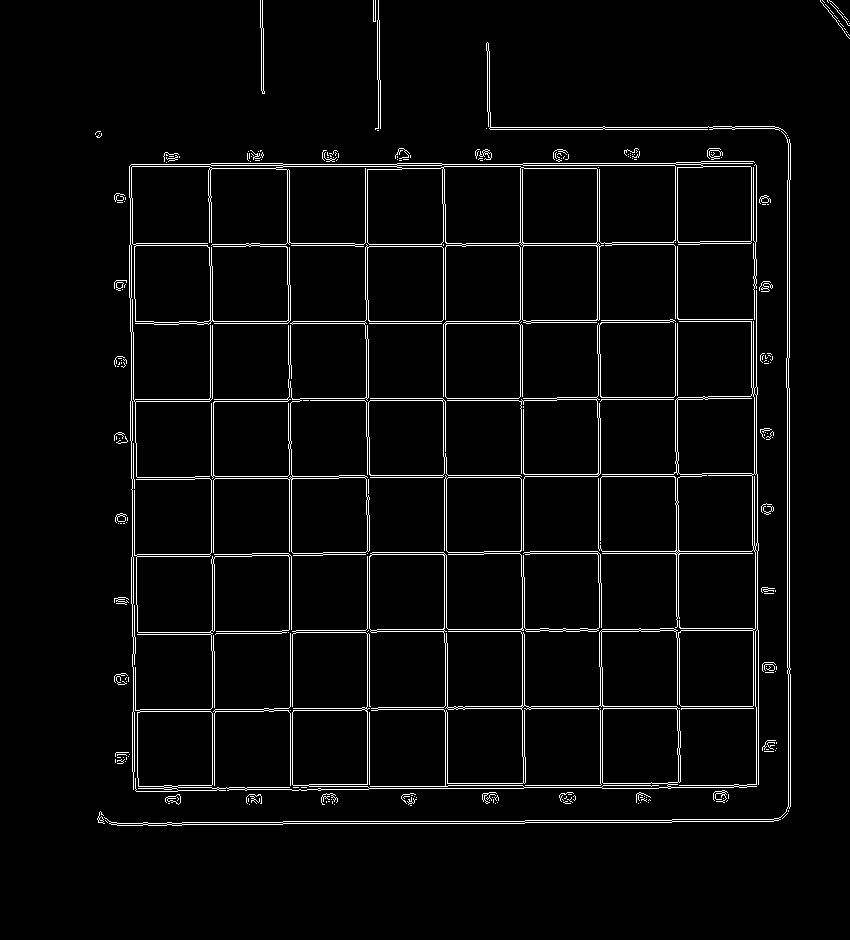
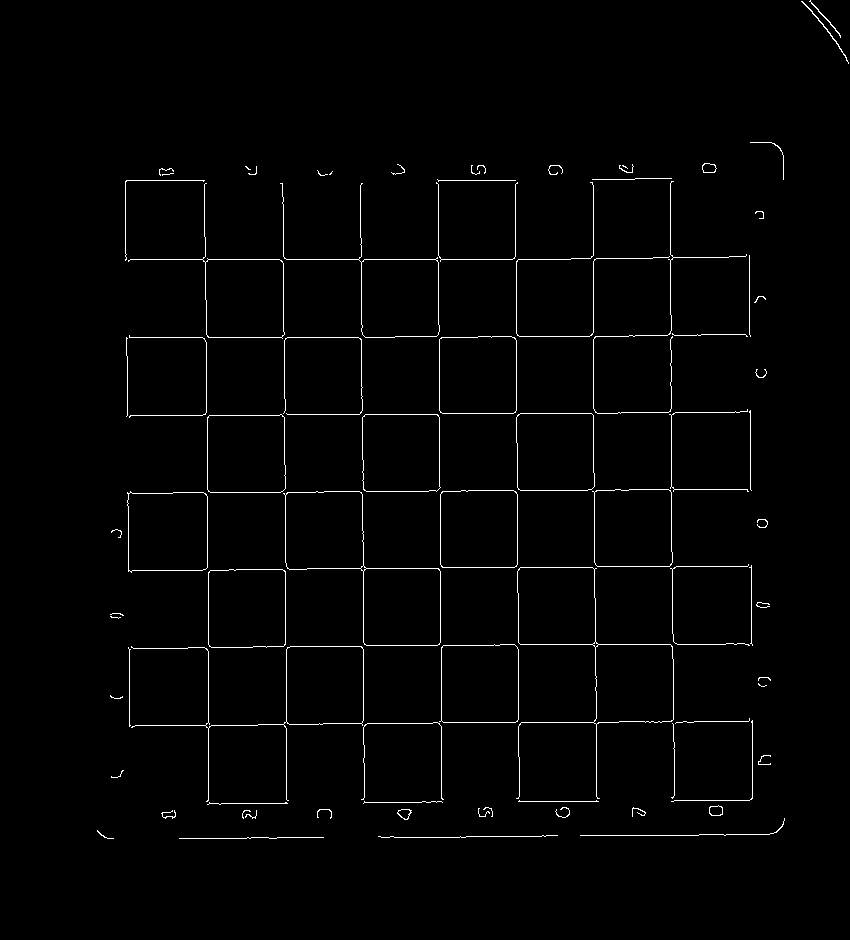
revised board detection

diff --git a/ChessLocalization.py b/ChessLocalization.py
@@ -3,6 +3,7 @@ import numpy as np
 import os
 
 def cropBorder(img, lines):
+    dims = img.shape
     minX = float('inf')
     maxX = float('-inf')
     minY = float('inf')
@@ -25,7 +26,14 @@ def cropBorder(img, lines):
                 maxY = y1
             if(y2 > maxY):
                 maxY = y2 
-
+    if(minY > 10): 
+        minY = minY-10
+    if(minX > 10): 
+        minX = minX-10
+    if(dims[1] > maxX +10): 
+        maxX = maxX + 10
+    if(dims[0] > maxY +10): 
+        maxY = maxY + 10
     crop = img[minY:maxY, minX:maxX]
     return crop
 
@@ -34,11 +42,10 @@ def cropBorder(img, lines):
 def localization(img):
     scriptDir = os.path.dirname(__file__)
 
-    img_blur = cv2.GaussianBlur(img,(5,5),0)
+    img_blur = cv2.GaussianBlur(img,(7,7),0)
 
     gray = cv2.cvtColor(img_blur, cv2.COLOR_BGR2GRAY)
 
-    edges = cv2.Canny(gray,100,200)
 
     # ret, thresh1 = cv2.threshold(gray,127,255,cv2.THRESH_BINARY)
     # cv2.imshow("temp", thresh1)
@@ -46,13 +53,16 @@ def localization(img):
     # crop_r = img
     # crop_img = edges
     crop_r = img[100:dims[0]-40,500:dims[1]-570]
-    crop_img = edges[100:dims[0]-40,500:dims[1]-570]
+    crop_img = gray[100:dims[0]-40,500:dims[1]-570]
     
-    
+    edges = cv2.Canny(crop_img,150,200)
+    cv2.imshow("gray",gray)
+    cv2.imshow("edges",edges)
+    # edges = cv2.Canny(crop_img,0,50,apertureSize = 3)
+    # edges = cv2.Canny(crop_img,100,200)
 
-    edges = cv2.Canny(crop_img,0,50,apertureSize = 3)
 
-    lines = cv2.HoughLinesP(edges,1,np.pi/180,15,50,100,20)
+    lines = cv2.HoughLinesP(edges,1,np.pi/180,15,50,20,20)
     for line in lines:
         for x1,y1,x2,y2 in line:
             cv2.line(crop_r,(x1,y1),(x2,y2),(255,0,0),5)
@@ -65,23 +75,23 @@ def localization(img):
     cv2.imshow("temp",crop_img)
     cv2.imshow("temp2", crop_r)
     cv2.waitKey(0)
-    return crop_r
+    # return crop_r
 
-    # crop = cropBorder(crop_r, lines)
-    # dims = crop.shape
-    # crop = crop[10:dims[0]-10,10:dims[1]-10]
+    crop = cropBorder(crop_r, lines)
+    dims = crop.shape
+    crop = crop[10:dims[0]-10,10:dims[1]-10]
 
-    # edges = cv2.Canny(crop,50,150,apertureSize = 3)
+    edges = cv2.Canny(crop,50,150,apertureSize = 3)
 
-    # lines = cv2.HoughLinesP(edges,1,np.pi/180,15,50,300,20)
-    # # for line in lines:
-    #     # for x1,y1,x2,y2 in line:
-    #         # cv2.line(crop,(x1,y1),(x2,y2),(255,0,0),5)
-    # crop2 = cropBorder(crop, lines)
-    # cv2.imshow("1", crop)
-    # cv2.imshow("2", crop2)
-    # cv2.waitKey(0)
-    # return crop2
+    lines = cv2.HoughLinesP(edges,1,np.pi/180,15,50,300,20)
+    # for line in lines:
+        # for x1,y1,x2,y2 in line:
+            # cv2.line(crop,(x1,y1),(x2,y2),(255,0,0),5)
+    crop2 = cropBorder(crop, lines)
+    cv2.imshow("1", crop)
+    cv2.imshow("2", crop2)
+    cv2.waitKey(0)
+    return crop2
 
 
 def dice(img):
